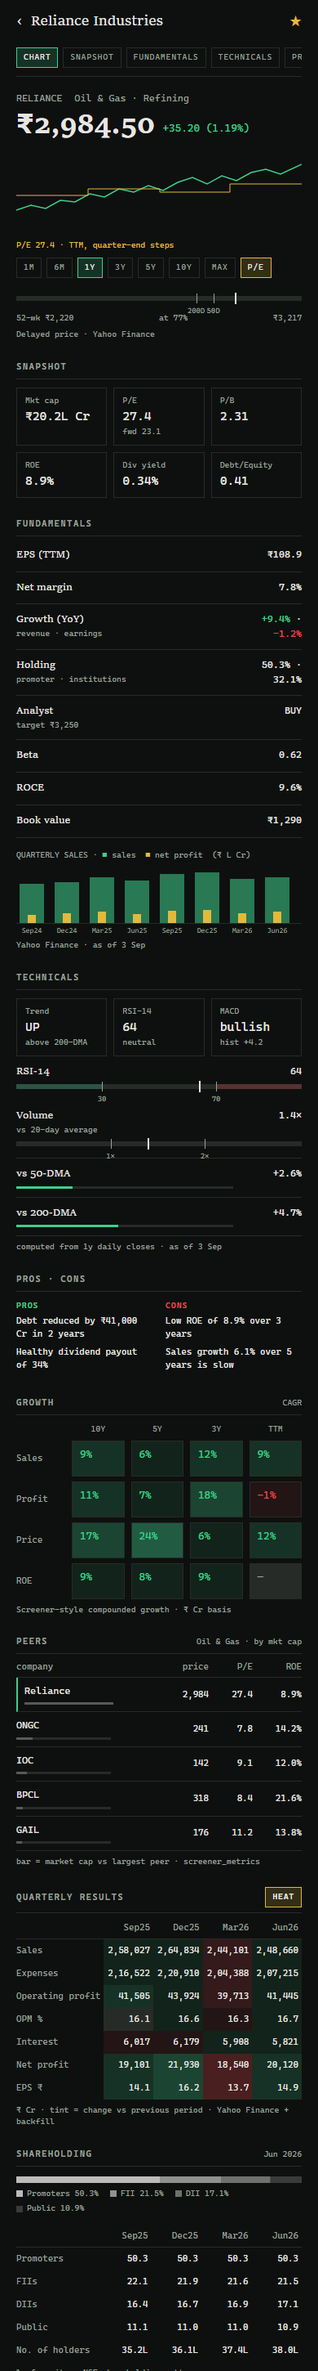
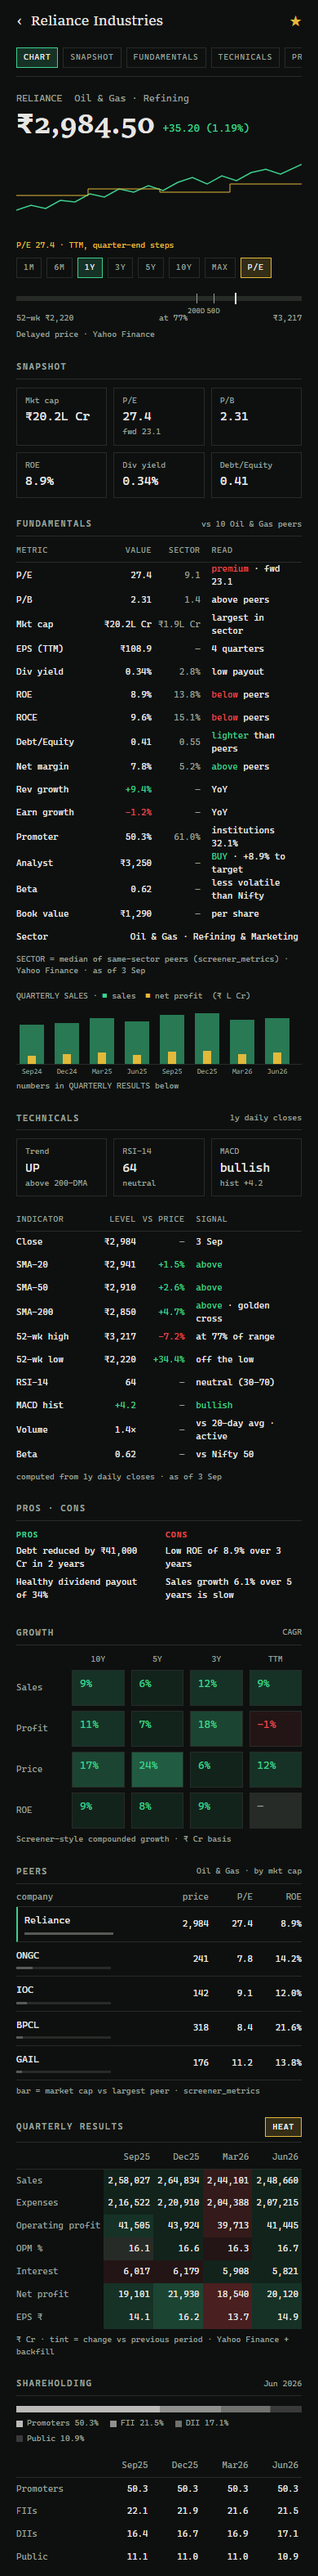
mockups: stock fundamentals + technicals as labelled tables (metric/value/sector/read)

diff --git a/docs/mockups/finswipe-stock-mockup.html b/docs/mockups/finswipe-stock-mockup.html
@@ -42,6 +42,8 @@
   .hg{background:rgba(62,207,142,.10)} .hg2{background:rgba(62,207,142,.18)} .hg3{background:rgba(62,207,142,.28)} .hg4{background:rgba(62,207,142,.40)}
   .hr{background:rgba(229,72,77,.10)} .hr2{background:rgba(229,72,77,.18)} .hr3{background:rgba(229,72,77,.28)} .hr4{background:rgba(229,72,77,.40)}
   .h0{background:var(--border)}
+  table.kv td.w,table.kv th.w{text-align:left;white-space:normal;color:var(--dim)} table.kv td.w{color:var(--ink)}
+  table.kv th{font-size:10px;letter-spacing:.06em} table.kv td:first-child{color:var(--ink)}
   .stack{display:flex;height:8px;margin:12px 0 6px} .legend{display:flex;flex-wrap:wrap;gap:4px 14px;font-size:10px;color:var(--dim)}
   .legend b{display:inline-block;width:8px;height:8px;margin-right:5px;vertical-align:middle}
   .peer{display:flex;align-items:center;padding:8px 0;border-bottom:1px solid var(--border);font-size:11px}
@@ -90,16 +92,28 @@
 
   <!-- FUNDAMENTALS -->
   <div class="sec">
-    <div class="hdr"><span>FUNDAMENTALS</span></div>
-    <div class="row"><div class="main"><div class="t">EPS (TTM)</div></div><div class="trail">₹108.9</div></div>
-    <div class="row"><div class="main"><div class="t">Net margin</div></div><div class="trail">7.8%</div></div>
-    <div class="row"><div class="main"><div class="t">Growth (YoY)</div><div class="s">revenue · earnings</div></div><div class="trail"><span class="g">+9.4%</span> · <span class="r">−1.2%</span></div></div>
-    <div class="row"><div class="main"><div class="t">Holding</div><div class="s">promoter · institutions</div></div><div class="trail">50.3% · 32.1%</div></div>
-    <div class="row"><div class="main"><div class="t">Analyst</div><div class="s">target ₹3,250</div></div><div class="trail g">BUY</div></div>
-    <div class="row"><div class="main"><div class="t">Beta</div></div><div class="trail">0.62</div></div>
-    <div class="row"><div class="main"><div class="t">ROCE</div></div><div class="trail">9.6%</div></div>
-    <div class="row"><div class="main"><div class="t">Book value</div></div><div class="trail">₹1,290</div></div>
-    <div style="font-size:10px;margin-top:14px" class="dim">QUARTERLY SALES · <span style="color:#3ECF8E">■</span> sales &nbsp;<span class="a">■</span> net profit &nbsp;(₹ L Cr)</div>
+    <div class="hdr"><span>FUNDAMENTALS</span><span class="stamp">vs 10 Oil &amp; Gas peers</span></div>
+    <table class="kv" style="margin-top:2px">
+      <tr><th style="width:96px">METRIC</th><th>VALUE</th><th>SECTOR</th><th class="w" style="padding-left:10px">READ</th></tr>
+      <tr><td>P/E</td><td>27.4</td><td class="dim">9.1</td><td class="w" style="padding-left:10px"><span class="r">premium</span> · fwd 23.1</td></tr>
+      <tr><td>P/B</td><td>2.31</td><td class="dim">1.4</td><td class="w" style="padding-left:10px">above peers</td></tr>
+      <tr><td>Mkt cap</td><td>₹20.2L Cr</td><td class="dim">₹1.9L Cr</td><td class="w" style="padding-left:10px">largest in sector</td></tr>
+      <tr><td>EPS (TTM)</td><td>₹108.9</td><td class="dim">—</td><td class="w" style="padding-left:10px">4 quarters</td></tr>
+      <tr><td>Div yield</td><td>0.34%</td><td class="dim">2.8%</td><td class="w" style="padding-left:10px">low payout</td></tr>
+      <tr><td>ROE</td><td>8.9%</td><td class="dim">13.8%</td><td class="w" style="padding-left:10px"><span class="r">below</span> peers</td></tr>
+      <tr><td>ROCE</td><td>9.6%</td><td class="dim">15.1%</td><td class="w" style="padding-left:10px"><span class="r">below</span> peers</td></tr>
+      <tr><td>Debt/Equity</td><td>0.41</td><td class="dim">0.55</td><td class="w" style="padding-left:10px"><span class="g">lighter</span> than peers</td></tr>
+      <tr><td>Net margin</td><td>7.8%</td><td class="dim">5.2%</td><td class="w" style="padding-left:10px"><span class="g">above</span> peers</td></tr>
+      <tr><td>Rev growth</td><td class="g">+9.4%</td><td class="dim">—</td><td class="w" style="padding-left:10px">YoY</td></tr>
+      <tr><td>Earn growth</td><td class="r">−1.2%</td><td class="dim">—</td><td class="w" style="padding-left:10px">YoY</td></tr>
+      <tr><td>Promoter</td><td>50.3%</td><td class="dim">61.0%</td><td class="w" style="padding-left:10px">institutions 32.1%</td></tr>
+      <tr><td>Analyst</td><td>₹3,250</td><td class="dim">—</td><td class="w" style="padding-left:10px"><span class="g">BUY</span> · +8.9% to target</td></tr>
+      <tr><td>Beta</td><td>0.62</td><td class="dim">—</td><td class="w" style="padding-left:10px">less volatile than Nifty</td></tr>
+      <tr><td>Book value</td><td>₹1,290</td><td class="dim">—</td><td class="w" style="padding-left:10px">per share</td></tr>
+      <tr><td>Sector</td><td colspan="3" class="w" style="text-align:right;color:var(--ink)">Oil &amp; Gas · Refining &amp; Marketing</td></tr>
+    </table>
+    <div class="foot">SECTOR = median of same-sector peers (screener_metrics) · Yahoo Finance · as of 3 Sep</div>
+    <div style="font-size:10px;margin-top:16px" class="dim">QUARTERLY SALES · <span style="color:#3ECF8E">■</span> sales &nbsp;<span class="a">■</span> net profit &nbsp;(₹ L Cr)</div>
     <svg viewBox="0 0 350 84" width="350" height="84" style="margin-top:6px;display:block">
       <g fill="#3ECF8E" fill-opacity=".55">
         <rect x="4" y="22" width="30" height="48"/><rect x="47" y="20" width="30" height="50"/><rect x="90" y="14" width="30" height="56"/><rect x="133" y="18" width="30" height="52"/>
@@ -114,33 +128,30 @@
         <text x="19" y="82">Sep24</text><text x="62" y="82">Dec24</text><text x="105" y="82">Mar25</text><text x="148" y="82">Jun25</text><text x="191" y="82">Sep25</text><text x="234" y="82">Dec25</text><text x="277" y="82">Mar26</text><text x="320" y="82">Jun26</text>
       </g>
     </svg>
-    <div class="foot">Yahoo Finance · as of 3 Sep</div>
+    <div class="foot">numbers in QUARTERLY RESULTS below</div>
   </div>
 
   <!-- TECHNICALS -->
   <div class="sec">
-    <div class="hdr"><span>TECHNICALS</span></div>
+    <div class="hdr"><span>TECHNICALS</span><span class="stamp">1y daily closes</span></div>
     <div class="grid c3" style="margin-top:10px">
       <div class="tile"><div class="l">Trend</div><div class="v g">UP</div><div class="s">above 200-DMA</div></div>
       <div class="tile"><div class="l">RSI-14</div><div class="v">64</div><div class="s">neutral</div></div>
       <div class="tile"><div class="l">MACD</div><div class="v g">bullish</div><div class="s">hist +4.2</div></div>
     </div>
-    <div class="row" style="border:0;padding-bottom:0"><div class="main"><div class="t">RSI-14</div></div><div class="trail">64</div></div>
-    <div class="scale" style="margin-top:6px">
-      <div class="z" style="left:0;width:30%;background:rgba(62,207,142,.25)"></div>
-      <div class="z" style="left:70%;width:30%;background:rgba(229,72,77,.25)"></div>
-      <div class="k" style="left:30%"></div><div class="kl" style="left:30%">30</div>
-      <div class="k" style="left:70%"></div><div class="kl" style="left:70%">70</div>
-      <div class="m" style="left:64%"></div>
-    </div>
-    <div class="row" style="border:0;padding-bottom:0;margin-top:14px"><div class="main"><div class="t">Volume</div><div class="s">vs 20-day average</div></div><div class="trail">1.4×</div></div>
-    <div class="scale" style="margin-top:6px">
-      <div class="k" style="left:33%"></div><div class="kl" style="left:33%">1×</div>
-      <div class="k" style="left:66%"></div><div class="kl" style="left:66%">2×</div>
-      <div class="m" style="left:46%"></div>
-    </div>
-    <div class="row" style="margin-top:14px;border-top:1px solid var(--border)"><div class="main"><div class="t">vs 50-DMA</div><div class="bar"><i class="g" style="width:26%"></i></div></div><div class="trail g">+2.6%</div></div>
-    <div class="row"><div class="main"><div class="t">vs 200-DMA</div><div class="bar"><i class="g" style="width:47%"></i></div></div><div class="trail g">+4.7%</div></div>
+    <table class="kv" style="margin-top:14px">
+      <tr><th style="width:96px">INDICATOR</th><th>LEVEL</th><th>VS PRICE</th><th class="w" style="padding-left:10px">SIGNAL</th></tr>
+      <tr><td>Close</td><td>₹2,984</td><td class="dim">—</td><td class="w" style="padding-left:10px">3 Sep</td></tr>
+      <tr><td>SMA-20</td><td>₹2,941</td><td class="g">+1.5%</td><td class="w" style="padding-left:10px"><span class="g">above</span></td></tr>
+      <tr><td>SMA-50</td><td>₹2,910</td><td class="g">+2.6%</td><td class="w" style="padding-left:10px"><span class="g">above</span></td></tr>
+      <tr><td>SMA-200</td><td>₹2,850</td><td class="g">+4.7%</td><td class="w" style="padding-left:10px"><span class="g">above</span> · golden cross</td></tr>
+      <tr><td>52-wk high</td><td>₹3,217</td><td class="r">−7.2%</td><td class="w" style="padding-left:10px">at 77% of range</td></tr>
+      <tr><td>52-wk low</td><td>₹2,220</td><td class="g">+34.4%</td><td class="w" style="padding-left:10px">off the low</td></tr>
+      <tr><td>RSI-14</td><td>64</td><td class="dim">—</td><td class="w" style="padding-left:10px">neutral (30–70)</td></tr>
+      <tr><td>MACD hist</td><td class="g">+4.2</td><td class="dim">—</td><td class="w" style="padding-left:10px"><span class="g">bullish</span></td></tr>
+      <tr><td>Volume</td><td>1.4×</td><td class="dim">—</td><td class="w" style="padding-left:10px">vs 20-day avg · active</td></tr>
+      <tr><td>Beta</td><td>0.62</td><td class="dim">—</td><td class="w" style="padding-left:10px">vs Nifty 50</td></tr>
+    </table>
     <div class="foot">computed from 1y daily closes · as of 3 Sep</div>
   </div>
 
